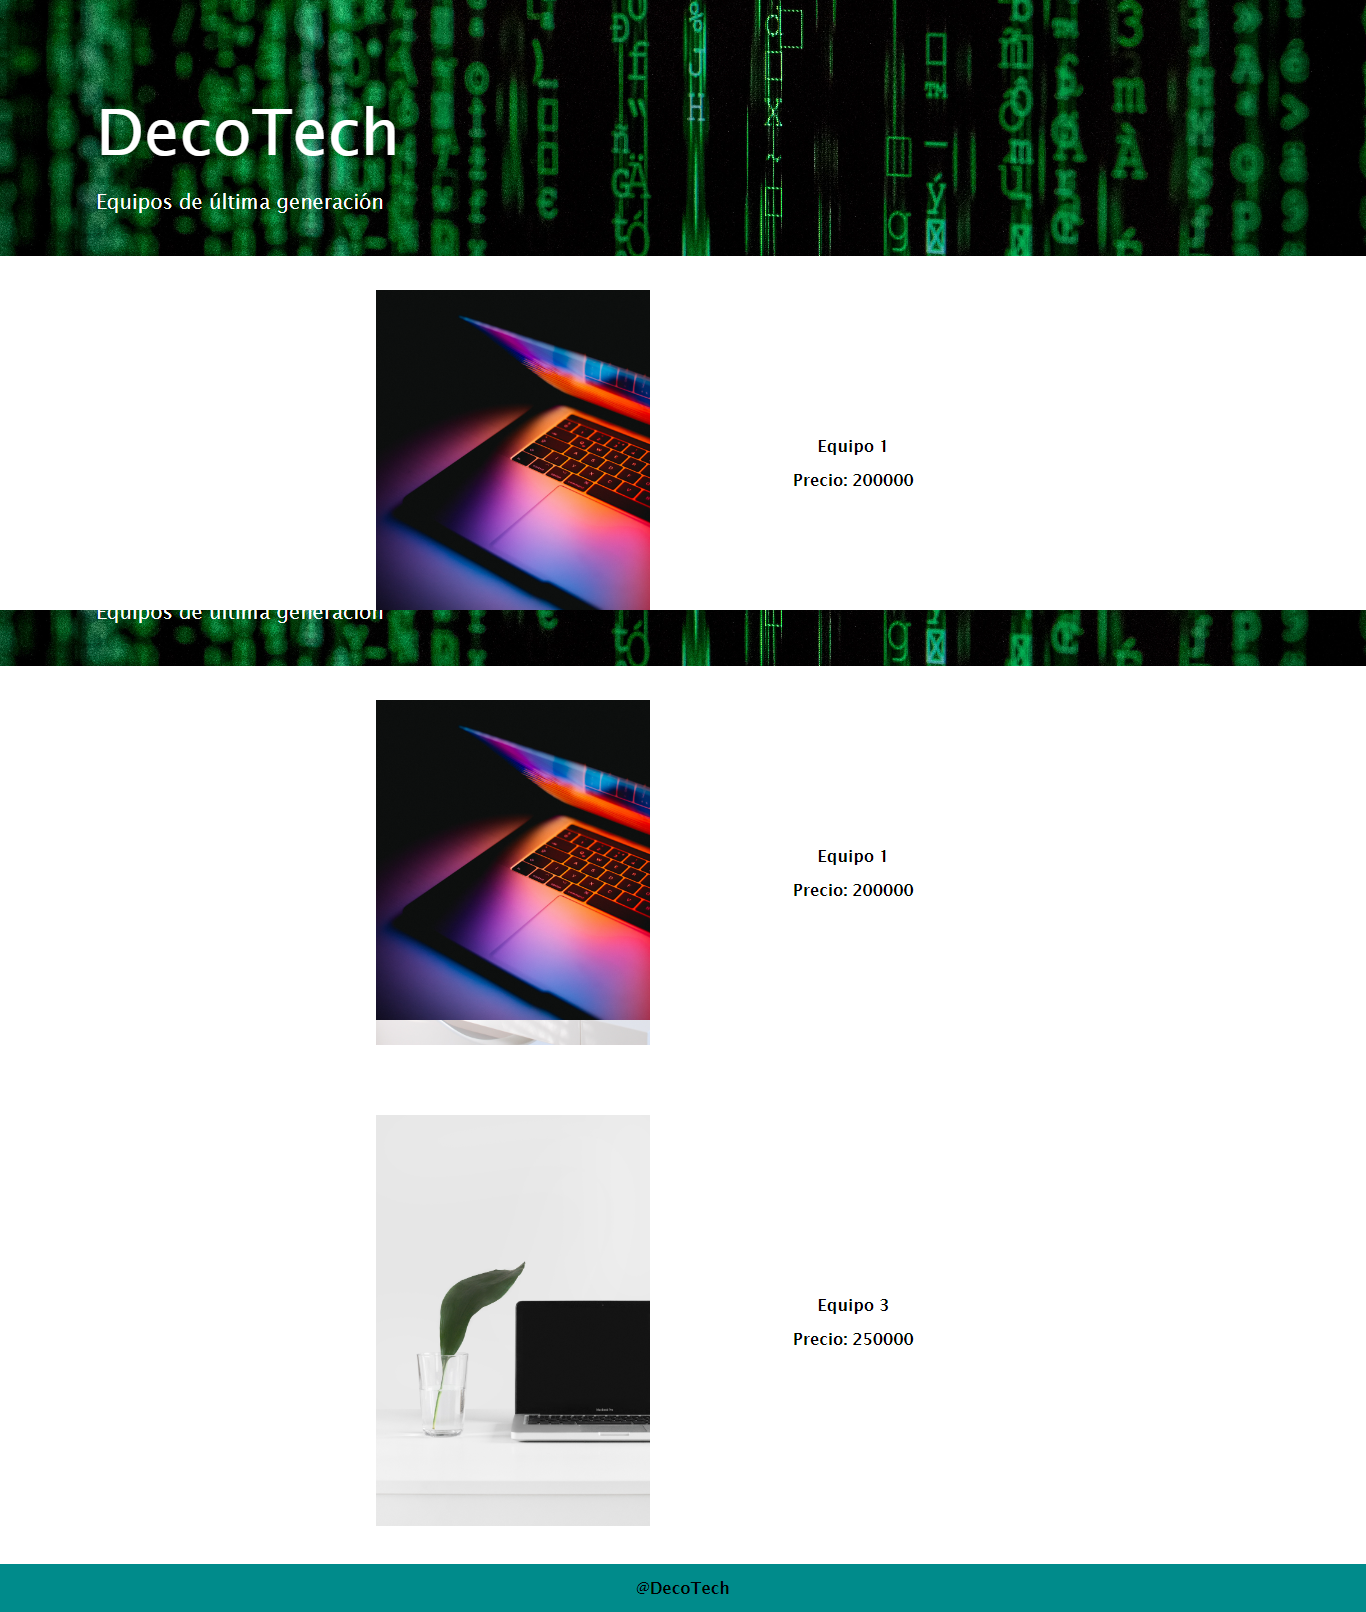
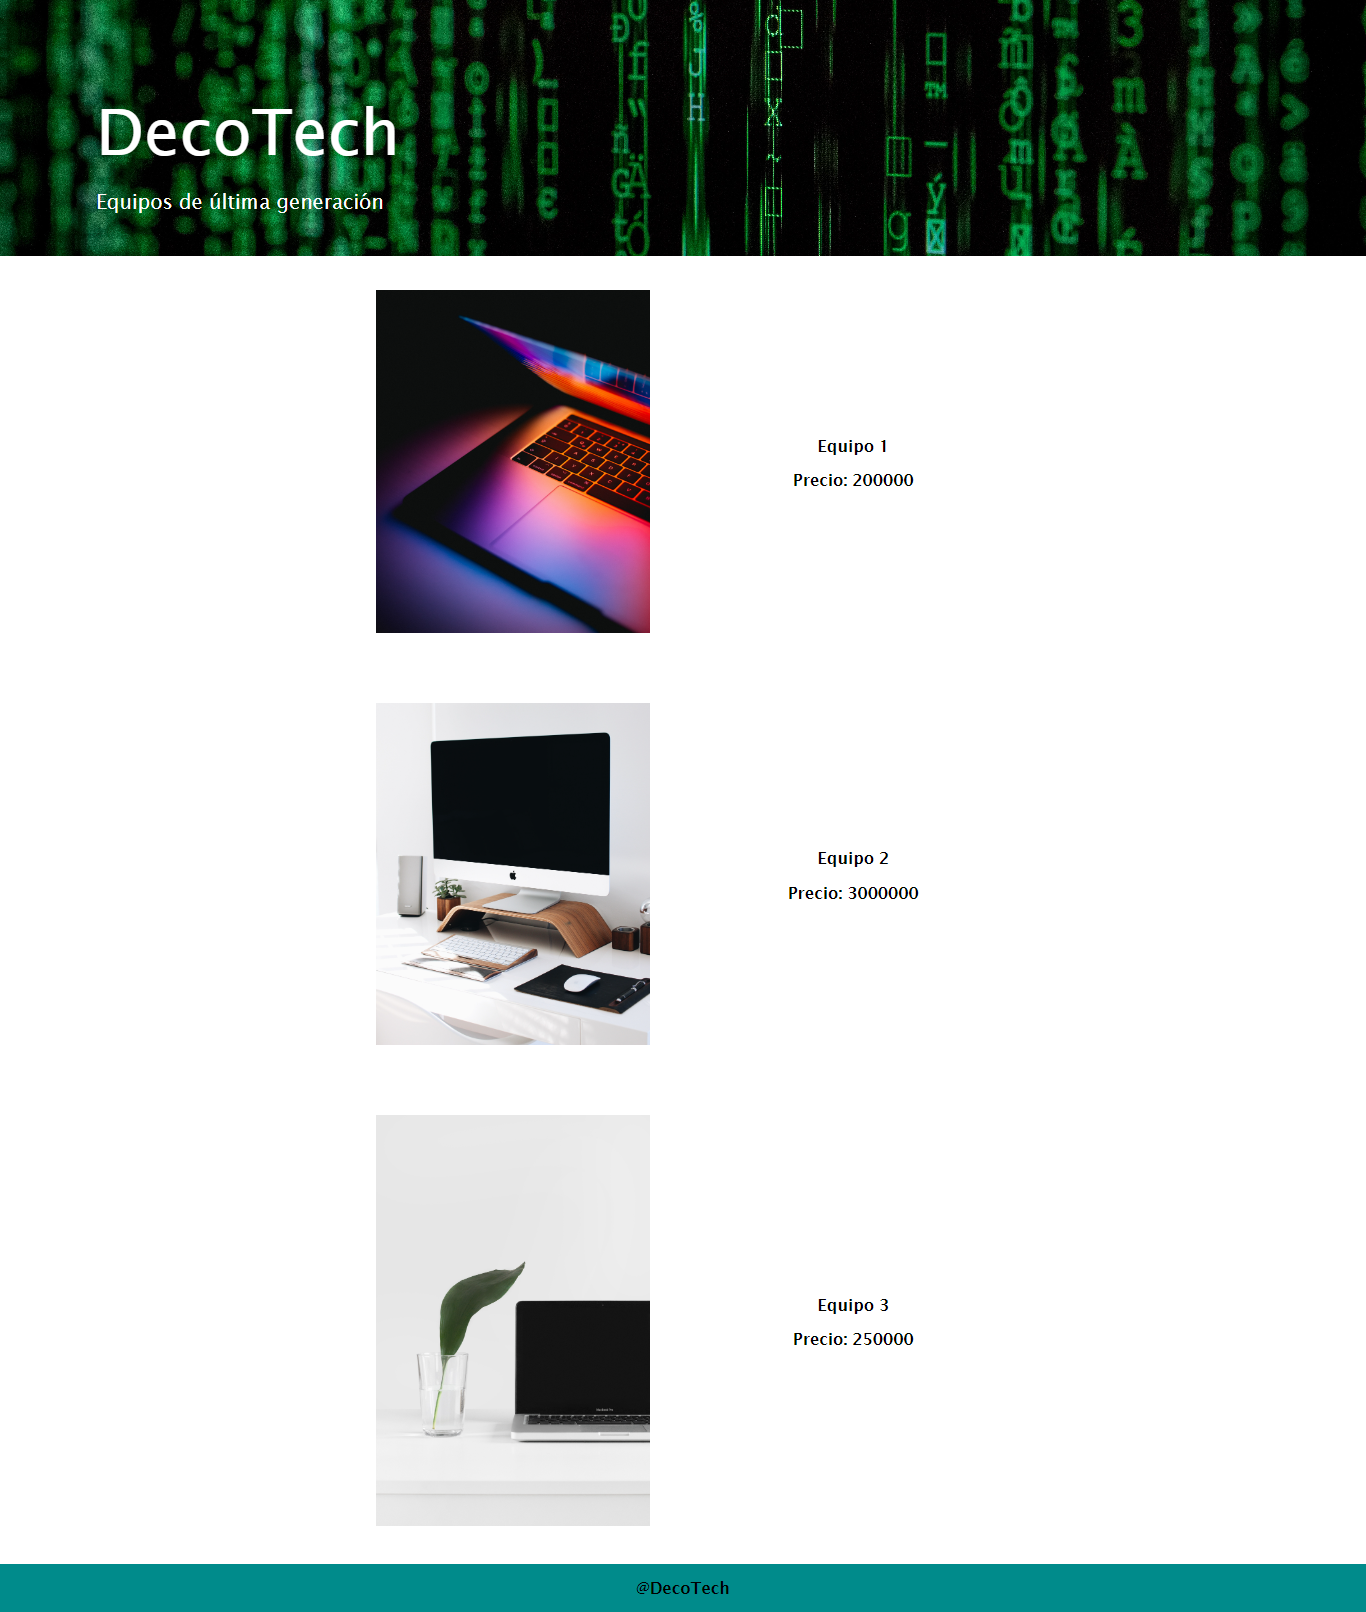
final

Changed region(s): [[0.0, 0.3722, 1.0, 0.6514], [0.5842, 0.5273, 0.6764, 0.5583]]

diff --git a/index.html b/index.html
@@ -38,39 +38,74 @@
   <header class="presentacion text-center bg-body-secondary p-lg-4">
 
     <img src="./assets/img/perfil.jpg" class="img-fluid p-3" width="20%" height="30%" alt="imagen perfil">
-    
-    <h2 class="mt-2">César Venegas Ferrada</h2>
-  </header>
-  <section id="sobremi">
-  <h2 class="text-center p-4 m-6 border-1">Sobre Mí</h2>
-   <div class="row">
 
-     <div class="col-md-6">
-      Lorem ipsum, dolor sit amet consectetur adipisicing elit. Reprehenderit quisquam ad iusto voluptatem eum. Ab quisquam molestias porro soluta itaque quis odit quasi dolorem quidem?
-     </div>
-     <div class="col-md-6">
-      Lorem ipsum dolor sit amet consectetur adipisicing elit. Accusantium fugiat obcaecati, nobis culpa animi unde quibusdam ad, dicta doloribus, ipsum laboriosam enim saepe earum expedita.
-     </div>
-   </div>
+    <h2 class="mt-4 mb-4 text-black">César Venegas Ferrada</h2>
+    <p>Correo: cesar.venegas.f@gmail.com</p>
+    <p>Edad: 46</p>
+  </header>
+  <section id="sobremi " class="p-3 bg-gray-200">
+    <h2 class="text-center p-4 border-1">Sobre Mí</h2>
+    <div class="row">
+      <div class="col-md-6 mb-4">
+        <h3>Habilidades Destacadas:</h3>
+        <ul>
+          <li>
+            <strong>Liderazgo:</strong>
+          </li>
+          <li>
+            <strong>Comunicación efectiva:</strong>
+          </li>
+          <li>
+            <strong>Resolución de problemas:</strong>
+          </li>
+        </ul>
+      </div>
+      <div class="col-md-6 mb-4">
+        <h3>Experiencia Laboral:</h3>
+        <ul>
+          <li>
+            <strong>Hospital el Carmen Maipú - Desarrollador Jr</strong>
+            <ul>
+              <li>Desarrollo de aplicaciones en Angular y Java</li>
+            </ul>
+          </li>
+          <li>
+            <strong>Avant Technologies - Administrador de redes y soporte informático</strong>
+            <ul>
+              <li>Administrador de redes y soporte informático</li>
+            </ul>
+          </li>
+          <li>
+            <strong>Quintec - Operador Mesa de Ayuda</strong>
+            <ul>
+              <li>Operador Mesa de Ayuda prestando apoyo informatico</li>
+            </ul>
+          </li>
+        </ul>
+      </div>
+    </div>
   </section>
-  
   <div id="carouselExampleDark" class="carousel carousel-dark slide custom-carousel">
-    <h2 class="text-center p-3">Portafolios</h2>
+    <h2 class="text-center ">Portafolios</h2>
     <div class="carousel-indicators">
       <button type="button" data-bs-target="#carouselExampleDark" data-bs-slide-to="0" class="active"
         aria-current="true" aria-label="Slide 1"></button>
       <button type="button" data-bs-target="#carouselExampleDark" data-bs-slide-to="1" aria-label="Slide 2"></button>
       <button type="button" data-bs-target="#carouselExampleDark" data-bs-slide-to="2" aria-label="Slide 3"></button>
+      <button type="button" data-bs-target="#carouselExampleDark" data-bs-slide-to="3" aria-label="Slide 3"></button>
     </div>
     <div class="carousel-inner">
       <div class="carousel-item active" data-bs-interval="10000">
         <img src="./assets/img/page.png" class="d-block w-100" alt="">
       </div>
       <div class="carousel-item" data-bs-interval="2000">
-        <img src="./assets/img/iguanapage.png" class="d-block w-100 size-image" alt=""> 
+        <img src="./assets/img/iguanapage.png" class="d-block w-100" alt="">
       </div>
-      <div class="carousel-item">
-        <img src="./assets/img/desafiogit.png" class="d-block w-100" alt=""> 
+      <div class="carousel-item" data-bs-interval="200">
+        <img src="./assets/img/desafiogit.png" class="d-block w-100" alt="">
+      </div>
+      <div class="carousel-item" data-bs-interval="2000">
+        <img src="./assets/img/desafio1.png" class="d-block w-100" alt="">
       </div>
     </div>
     <button class="carousel-control-prev" type="button" data-bs-target="#carouselExampleDark" data-bs-slide="prev">
@@ -81,13 +116,39 @@
       <span class="carousel-control-next-icon" aria-hidden="true"></span>
       <span class="visually-hidden">Next</span>
     </button>
+    <button class="carousel-control-next" type="button" data-bs-target="#carouselExampleDark" data-bs-slide="next">
+      <span class="carousel-control-next-icon" aria-hidden="true"></span>
+      <span class="visually-hidden">Next</span>
+    </button>
   </div>
 
+  <div class="estudios text-center p-5 text-black bg-gray-300">
+    <h3 class="text-black p-lg-4">Educación</h3>
+    <ul class="list-group">
+      <li class="list-group-item d-flex justify-content-between align-items-center">
+
+        Academia DesafioLatam Desarrollo Full Stack JavaScript
+      </li>
+      <li class="list-group-item d-flex justify-content-between align-items-center">
+
+        AIEP Ingeniería de ejecución en administración de redes - Titulado
+      </li>
+      <li class="list-group-item d-flex justify-content-between align-items-center">
+
+        AIEP Técnico en instalación de redes de datos -Titulado
+      </li>
+      <li class="list-group-item d-flex justify-content-between align-items-center">
+        Duoc Administración de redes
+
+      </li>
+    </ul>
+  </div>
   <script src="https://cdn.jsdelivr.net/npm/bootstrap@5.3.2/dist/js/bootstrap.bundle.min.js"
     integrity="sha384-C6RzsynM9kWDrMNeT87bh95OGNyZPhcTNXj1NW7RuBCsyN/o0jlpcV8Qyq46cDfL"
     crossorigin="anonymous"></script>
-    <footer class="">
-      <p>@Cesar Venegas Ferrada</p>
-    </footer>
+  <footer class="">
+    <p>@Cesar Venegas Ferrada</p>
+  </footer>
 </body>
+
 </html>

diff --git a/assets/css/style.css b/assets/css/style.css
@@ -1,35 +1,44 @@
-
 .logo {
-    width: 25%;
-    height: 30%;
+  width: 25%;
+  height: 30%;
 }
+
+
+.img-fluid {
+  margin-left: -20px;
+}
+.contenido {
+  display: inline-block;
+  text-align: left; /* Alineación del texto a la izquierda dentro del contenedor */
+  max-width: 80%; /* Ancho máximo para el contenido */
  
+}
 
-    .img-fluid {
-      margin-left: -20px; 
-  }
+.carousel-inner{
 
-  .custom-carousel {
-    max-width: 25%;
-    margin: auto;   
-    padding-block: 40px;
-    margin-top: 10rem;
-  }
-  
-  .custom-carousel img {
-    width: 50%;    
-    height: 40%;   
-  }
+  width: 100%;
+}
+.custom-carousel {
 
-.presentacion img{
+  max-width: 25%;
+  margin: auto;
+  padding-bottom: 100px;
+  padding-top: 5%;
+}
 
-border-radius: 75%;
+.custom-carousel img {
 
+  height: 350%;
 
 }
- 
-footer{
-   
+
+.presentacion img {
+
+  border-radius: 75%;
+}
+
+footer {
+
   position: fixed;
   bottom: 0;
   width: 100%;
@@ -41,3 +50,16 @@ footer{
 
 }
 
+
+
+.estudios {
+  margin-bottom: 50px;
+}
+
+.bg-gray-200 {
+  background-color: #ccc; 
+}
+
+.bg-gray-300 {
+  background-color: #eaeaea; 
+}
